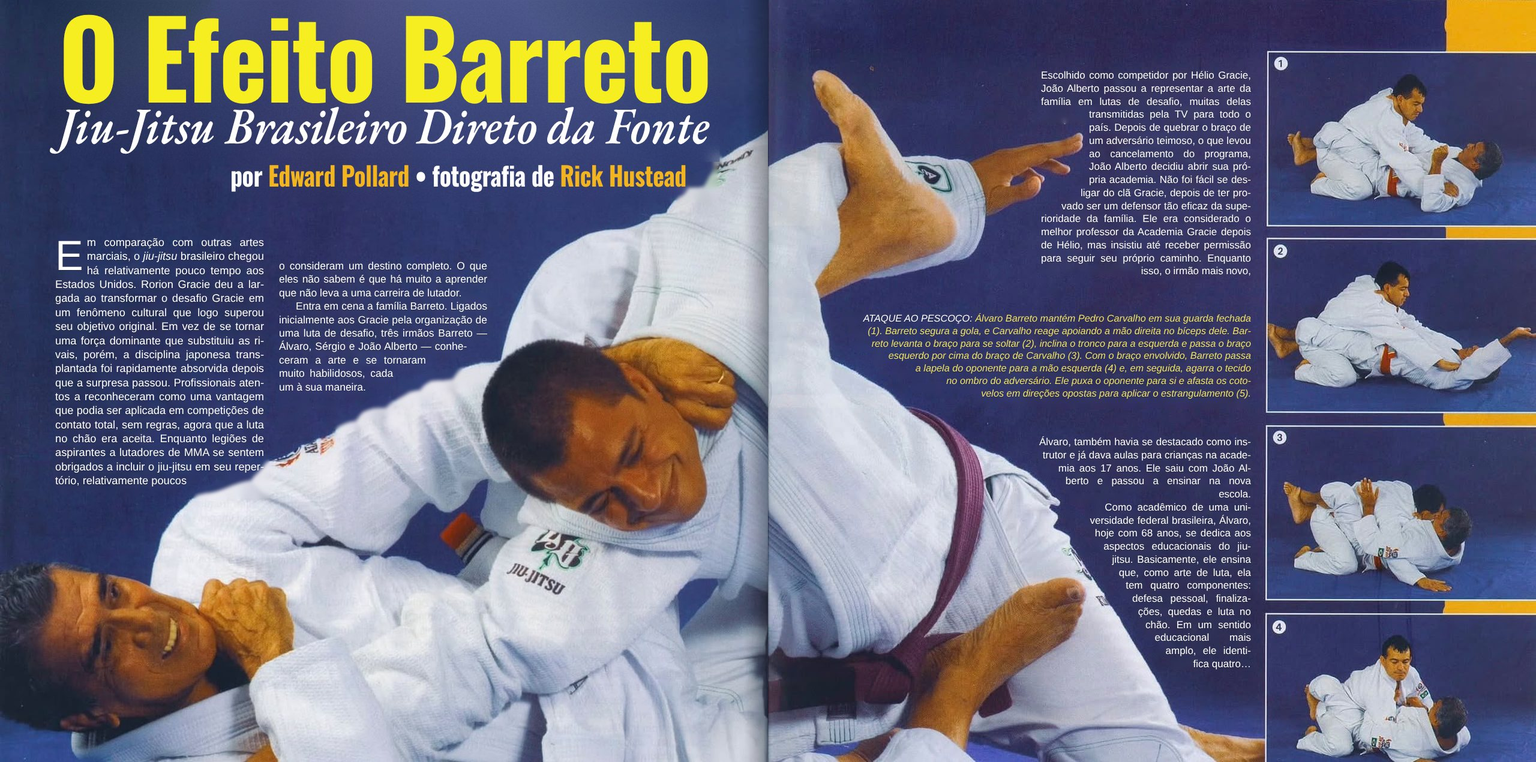
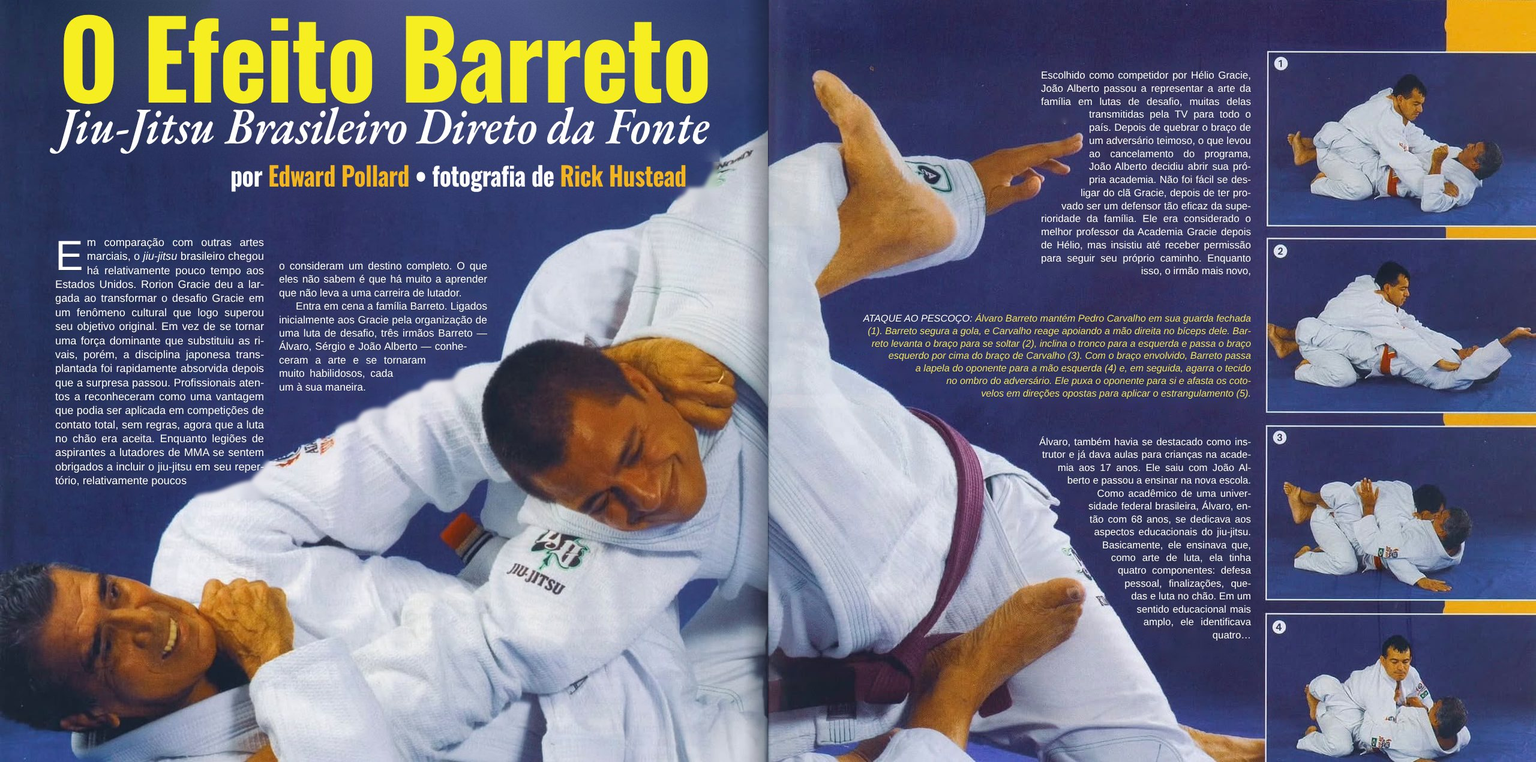
Nossas Origens: história da Barreto e linhagem
- Linha da linhagem: Mitsuyo Maeda → Carlos Gracie → Hélio Gracie →
  João Alberto e Álvaro Barreto → Eduardo e Andressa Guirau → Dojo Barreto
- Textos curtos sobre Hélio Gracie, os Grandes Mestres João Alberto e
  Álvaro Barreto, a criação da primeira federação (1967) e o legado
  no Dojo Barreto, antes do pôster da reportagem
- Pôster: trecho sobre Álvaro passa para o passado ("então com 68 anos")

Claude-Session: https://claude.ai/code/session_01JtNHJUt8AHLGr5vLf8xHFi

Changed region(s): [[0.6875, 0.5835, 0.8125, 0.8906]]

diff --git a/index.html b/index.html
@@ -2,7 +2,7 @@
 <html lang="pt-BR">
 <meta charset="utf-8">
 <meta name="viewport" content="width=device-width, initial-scale=1, viewport-fit=cover">
-<meta http-equiv="Content-Security-Policy" content="default-src 'self'; style-src 'self' 'unsafe-inline'; font-src 'self'; img-src 'self' data: https://dojobarretosite.goatcounter.com; media-src 'self'; connect-src https://dojobarretosite.goatcounter.com; frame-src 'none'; object-src 'none'; base-uri 'none'; form-action 'none'; script-src 'self' 'sha256-ib2MYkXKr2bE2eXG3P7ZcwqLzyWVe2LaL5sbYYWa7RI=' 'sha256-ZgBqeGd9Sw/5z3DaaV60iQQtmOZ1PvMkC4dD0P8Wkdo='; upgrade-insecure-requests">
+<meta http-equiv="Content-Security-Policy" content="default-src 'self'; style-src 'self' 'unsafe-inline'; font-src 'self'; img-src 'self' data: https://dojobarretosite.goatcounter.com; media-src 'self'; connect-src https://dojobarretosite.goatcounter.com; frame-src 'none'; object-src 'none'; base-uri 'none'; form-action 'none'; script-src 'self' 'sha256-SYsdIFd+f+xHUAMKak/QnQSw1xdhA161kLcog2soegQ=' 'sha256-ZgBqeGd9Sw/5z3DaaV60iQQtmOZ1PvMkC4dD0P8Wkdo='; upgrade-insecure-requests">
 <meta name="referrer" content="strict-origin-when-cross-origin">
 <style id="antiFrame">html{display:none!important}</style>
 <script>if (window.self === window.top) { document.getElementById("antiFrame").remove(); } else { window.top.location = window.self.location.href; }</script>
@@ -192,6 +192,19 @@ button.zoom{cursor:zoom-in;position:relative;display:block;width:100%;padding:0;
 @media (max-width:900px){.prof,.prof:nth-child(even){grid-template-columns:1fr;gap:32px}.prof:nth-child(even) .pic{order:0}.prof .pic,#sobre .split .pic{position:static;max-width:440px}.profs{gap:80px}}
 .prof:hover .media{transform:scale(1.04);filter:grayscale(0)}
 .prof .pic.on .media{filter:grayscale(0)}
+
+/* NOSSAS ORIGENS: linhagem e personagens */
+.linhagem{list-style:none;margin:40px 0 0;padding:0;display:flex;flex-wrap:wrap;align-items:center;gap:10px 0}
+.linhagem li{font-family:var(--head);text-transform:uppercase;letter-spacing:.16em;font-size:.78rem;color:var(--g4);border:1px solid rgba(201,165,133,.4);padding:8px 14px}
+.linhagem li.seta{border:0;padding:0 10px;color:var(--accent);letter-spacing:0;font-size:1rem}
+.linhagem li:last-child{background:linear-gradient(105deg,var(--g2),var(--g4) 40%,var(--g3) 60%,var(--g2));color:#1b130d;border-color:var(--g3)}
+.historia{display:grid;grid-template-columns:repeat(2,minmax(0,1fr));gap:34px 56px;margin-top:48px}
+.historia article{border-top:1px solid var(--line);padding-top:22px}
+.historia h3{font-size:1.05rem;letter-spacing:.16em;color:var(--accent);margin-bottom:10px}
+.historia p{color:var(--muted);font-size:.98rem;text-wrap:pretty}
+.historia article:last-child{grid-column:1/-1;border-top-color:rgba(201,165,133,.45)}
+.historia article:last-child p{color:var(--fg);font-size:1.05rem;max-width:760px}
+@media (max-width:760px){.historia{grid-template-columns:1fr;gap:26px}.linhagem li{font-size:.7rem;padding:7px 10px}}
 
 /* NOSSAS ORIGENS: pôster da reportagem */
 .poster{margin:44px 0 0}
@@ -453,6 +466,16 @@ const CONFIG = {
     kicker: "Nossas Origens",
     titulo: "Barreto Jiu-Jitsu",
     texto: "A linhagem que forma nossos professores: a família Barreto e a sua contribuição para a história do Jiu-Jitsu brasileiro.",
+    // linha do tempo da linhagem (do mais antigo ao Dojo)
+    linhagem: ["Mitsuyo Maeda", "Carlos Gracie", "Hélio Gracie", "João Alberto e Álvaro Barreto", "Eduardo e Andressa Guirau", "Dojo Barreto"],
+    // personagens da história; um bloco por item
+    historia: [
+      { nome: "Hélio Gracie", texto: "Grande mestre da família Gracie, foi o elo entre o jiu-jitsu trazido ao Brasil por Mitsuyo Maeda e Carlos Gracie e a família Barreto. Por volta de 1950, um amigo de Carlos Gracie levou o filho para treinar com Hélio: começava ali a história da Barreto no jiu-jitsu." },
+      { nome: "Grande Mestre João Alberto Barreto", texto: "Nascido em 1935, foi um dos lutadores mais temidos da Academia Gracie nos anos 1950, invicto e estrela do programa de TV “Heróis do Ringue”. Tornou-se um dos professores principais da academia, levou o irmão Álvaro para o tatame e, em 1993, esteve entre os primeiros árbitros do UFC. É faixa-vermelha." },
+      { nome: "Grande Mestre Álvaro Barreto", texto: "O educador da família. Nascido em 1941, entrou na Academia Gracie aos 10 anos e, em 1968, abriu a Academia Corpo Quatro, em Copacabana. Faixa-vermelha de 9º grau desde 2005, ajudou a formar mais de 300 faixas-pretas." },
+      { nome: "A organização do esporte", texto: "Em 1967, os Grandes Mestres João Alberto e Álvaro Barreto participaram da criação da primeira federação de jiu-jitsu do Brasil, presidida por Hélio Gracie: um passo decisivo para transformar a arte em esporte organizado." },
+      { nome: "O legado no Dojo Barreto", texto: "Os professores Eduardo e Andressa Guirau foram graduados pelos Grandes Mestres João Alberto e Álvaro Barreto e pelo Mestre Roberto Macedo. Hoje, levam essa linhagem ao Dojo Barreto, em Brasília." },
+    ],
     poster: {
       src: "img/origens-poster.jpg", w: 2560, h: 1270,
       alt: "Reportagem “O Efeito Barreto: Jiu-Jitsu Brasileiro Direto da Fonte”, traduzida para o português, com fotos de Álvaro Barreto demonstrando técnicas",
@@ -670,6 +693,10 @@ S.origens = () => {
 <section id="origens"><div class="wrap">
   <div class="car-head rv">
     <div><p class="kicker">${esc(O.kicker)}</p><h2>${esc(O.titulo)}</h2><p class="lead">${esc(O.texto)}</p></div>
+  </div>
+  <ol class="linhagem rv">${O.linhagem.map(n => `<li>${esc(n)}</li>`).join(`<li class="seta" aria-hidden="true">→</li>`)}</ol>
+  <div class="historia">${O.historia.map(h => `
+    <article class="rv"><h3>${esc(h.nome)}</h3><p>${sig(h.texto)}</p></article>`).join("")}
   </div>
   <figure class="poster rv">
     <button type="button" class="zoom" aria-label="Ampliar a reportagem">
